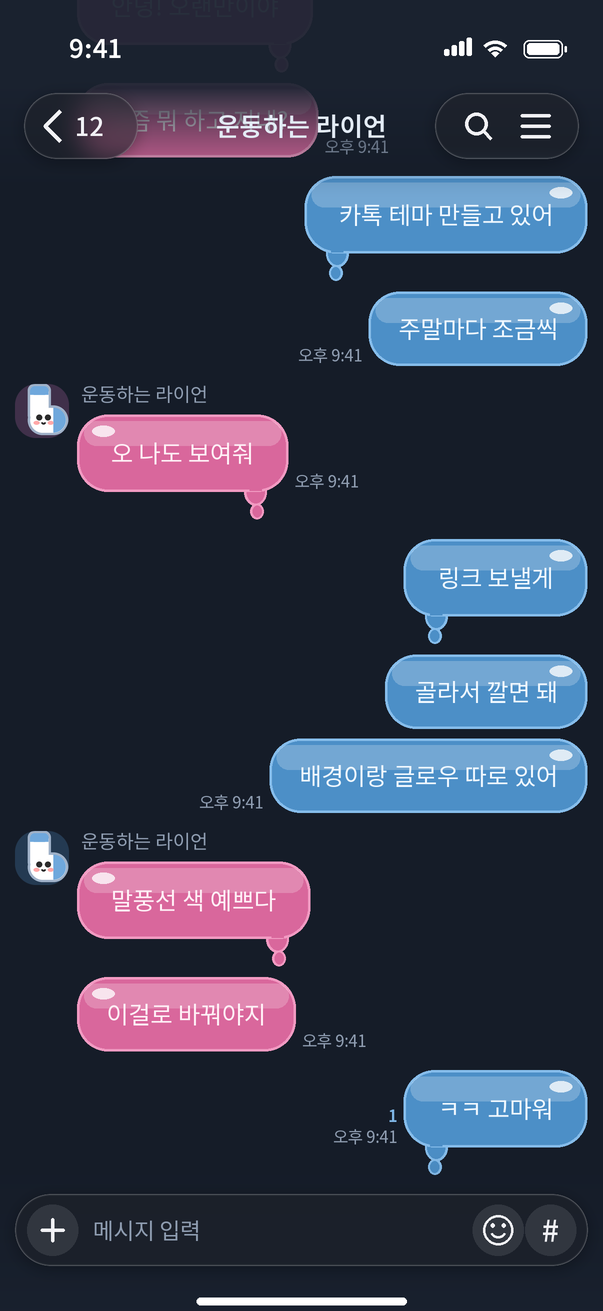
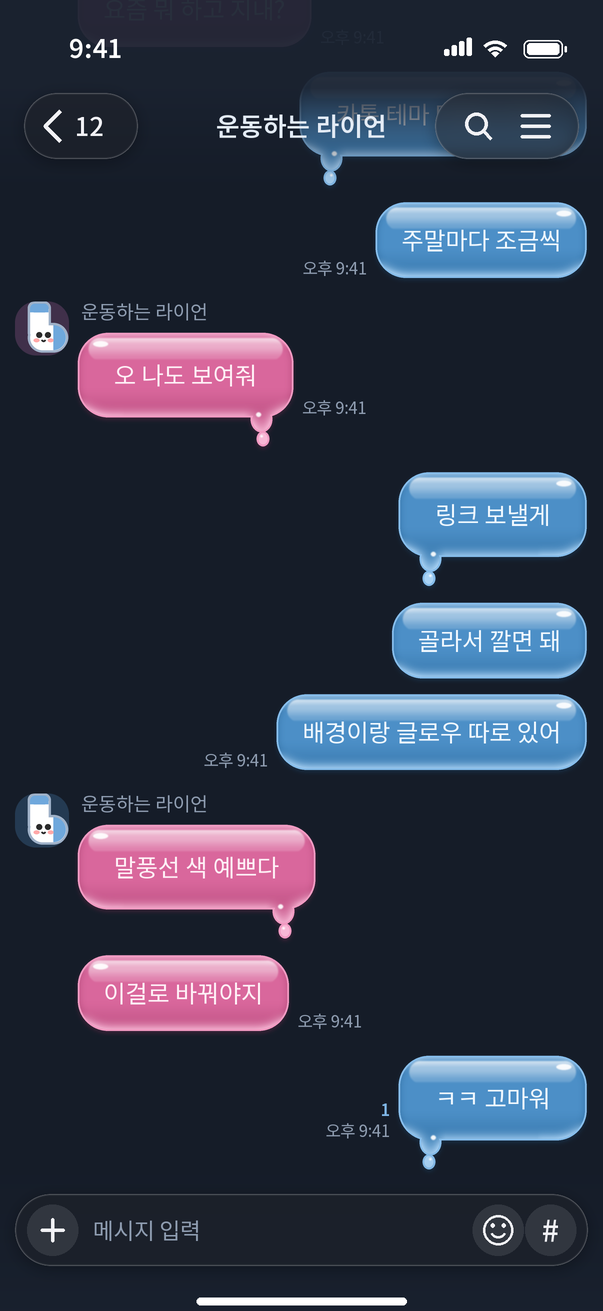
빨래 계열의 젤리 광택을 반사로 읽히게 다시 그리고 0.29.2 로 올린다
흰 알약과 반투명 띠를 얹던 광택을 층으로 쌓는다. 몸통 색이 물든 그림자, 아래가 짙은 명암,
가장자리 안쪽 띠, 아래 테두리에 고이는 빛, 위쪽 반사, 가장 밝은 점. 두 배로 그려 줄인다.

다른 96개 테마의 말풍선 그림·CSS·프로필은 해시로 대조해 버전 줄 말고 같은 것을 확인했다.

diff --git a/tools/charbubble.py b/tools/charbubble.py
@@ -20,6 +20,7 @@
 
 치수는 pt 다. scale 을 곱해 픽셀로 바꾼다.
 """
+import colorsys
 import math
 import os
 import sys
@@ -183,69 +184,173 @@ def f_pixel(t, bw, bh, first):
     return f
 
 
-def d_jelly(p, lp, x, y, w, h, first, ck, t):
-    """젤리. 광택은 보통/강함 두 가지(t['gloss']).
+JELLY_SS = 2          # 두 배로 그려 줄인다. 반사의 둥근 끝과 방울 하이라이트가 계단 없이 나온다
+JELLY_R = 19          # 몸통 모서리 반경
+JELLY_OW = 1.2       # 젤리 윤곽. 두꺼우면 젤리가 아니라 스티커로 읽힌다
 
-    가로로 긋는 선은 넣지 않는다 — 폭 전체를 지나는 선은 광택이 아니라 취소선이나 밑줄로
-    읽혔다. 흐린 빛 덩어리도 넣지 않는다 — 광택이 아니라 얼룩으로 읽혔다.
+
+def _hsv(h, dv=1.0, ds=1.0):
+    """명도와 채도만 곱한다. 그림자와 짙은 가장자리 색."""
+    r, g, b = (v / 255.0 for v in hexc(h)[:3])
+    hh, s, v = colorsys.rgb_to_hsv(r, g, b)
+    r, g, b = colorsys.hsv_to_rgb(hh, min(1.0, s * ds), min(1.0, v * dv))
+    return tuple(int(round(c * 255)) for c in (r, g, b))
+
+
+def _lift(h, f):
+    """빛 받은 색. 흰색을 섞지 않고 명도를 올린다 — 흰색을 섞으면 분홍이 탁한 살색이 된다."""
+    r, g, b = (v / 255.0 for v in hexc(h)[:3])
+    hh, s, v = colorsys.rgb_to_hsv(r, g, b)
+    r, g, b = colorsys.hsv_to_rgb(hh, s * (1 - 0.6 * f), v + (1 - v) * f)
+    return tuple(int(round(c * 255)) for c in (r, g, b))
+
+
+def _ramp(size, s, stops):
+    """세로 가림막. y 만의 함수라 가로로 늘어나도 모든 열이 같다.
+
+    stops 사이는 smoothstep 으로 잇는다. 선형으로 이으면 끝나는 줄에서 꺾인 자국이 보인다.
     """
-    fill, edge = hexc(_c(t[ck])), hexc(t[ck + '_edge'])
+    W, H = size
+    col = Image.new('L', (1, H), 0)
+    px = col.load()
+    ys = [(yy * s, vv) for yy, vv in stops]
+    for i in range(H):
+        yc = i + 0.5
+        if yc <= ys[0][0]:
+            v = ys[0][1]
+        elif yc >= ys[-1][0]:
+            v = ys[-1][1]
+        else:
+            for (a, va), (b, vb) in zip(ys, ys[1:]):
+                if a <= yc <= b:
+                    tt = (yc - a) / (b - a) if b > a else 1.0
+                    tt = tt * tt * (3 - 2 * tt)
+                    v = va + (vb - va) * tt
+                    break
+        px[0, i] = max(0, min(255, int(round(v))))
+    return col.resize((W, H), Image.NEAREST)
+
+
+def _paint(dst, color, alpha):
+    lay = Image.new('RGBA', dst.size, tuple(color[:3]) + (255,))
+    lay.putalpha(alpha)
+    dst.alpha_composite(lay)
+
+
+def _k(m, f):
+    return m.point(lambda v: max(0, min(255, int(v * f))))
+
+
+def d_jelly(p, lp, x, y, w, h, first, ck, t):
+    S = p.s * JELLY_SS
+    size = (p.img.width * JELLY_SS, p.img.height * JELLY_SS)
+    W_, H_ = size
+
+    def B(*v):
+        return [q * S for q in v]
+
+    def blur(m, r):
+        return m.filter(ImageFilter.GaussianBlur(r * S))
+
+    fill = _c(t[ck])
+    edge = t[ck + '_edge']
     strong = t.get('gloss') == 'strong'
+    k = 1.0 if strong else 0.6
     dx = x + w - 20
+
+    drops = []
     if first:
-        p.ell(dx, y + h + 2, 6, 7.5, fill, ow=OW, oc=edge)
-    p.rr(x, y, x + w, y + h, 19, fill, ow=OW, oc=edge)
-    if first:
-        p.rect(dx - 4, y + h - 2.5, dx + 4, y + h + 1, fill)      # 몸통과 방울 사이 선을 지운다
-        p.ell(dx + 1, y + h + 15, 3, 3.8, fill, ow=1.4, oc=edge)
-    white = lambda a: (255, 255, 255, a)
+        drops = [(dx, y + h + 2.5, 6, 7.5), (dx + 1, y + h + 15.5, 3, 3.8)]
+
+    def shape_mask(grow):
+        m = Image.new('L', size, 0)
+        d = ImageDraw.Draw(m)
+        d.rounded_rectangle(B(x - grow, y - grow, x + w + grow, y + h + grow),
+                            radius=(JELLY_R + grow) * S, fill=255)
+        for cx, cy, rx, ry in drops:
+            d.ellipse(B(cx - rx - grow, cy - ry - grow, cx + rx + grow, cy + ry + grow), fill=255)
+        return m
+
+    shape = shape_mask(0)
+    outer = shape_mask(JELLY_OW)
+    out = Image.new('RGBA', size, (0, 0, 0, 0))
+
+    # 1. 그림자. 검정이 아니라 몸통 색을 짙게 한 색이다 — 빛이 젤리를 지나 바닥에 색을 남긴다
+    off = int(1.6 * S)
+    sh = Image.new('L', size, 0)
+    sh.paste(blur(outer, 1.4).crop((0, 0, W_, H_ - off)), (0, off))
+    _paint(out, _hsv(fill, 0.55, 1.2), _k(sh, 0.38))
+
+    # 2. 윤곽. 몸통보다 조금 크게 칠하고 그 위에 몸통을 얹는다
+    _paint(out, hexc(edge), outer)
+
+    body = Image.new('RGBA', size, hexc(fill))
+    light, deep = _lift(fill, 0.55), _hsv(fill, 0.8, 1.15)
+
+    # 3. 몸통 명암. 위는 밝고 아래는 짙다. 가운데는 몸통 색 그대로 둔다 — 늘어나는 줄이 지나는 곳
+    #    위를 많이 밝히면 반사와 몸통 사이 대비가 사라져 반사가 안 읽힌다. 조금만 밝힌다
+    _paint(body, light, _ramp(size, S, [(y, 50 * k), (y + 16, 0)]))
+    _paint(body, deep, _ramp(size, S, [(y + h - 20, 0), (y + h - 3, 170 * k), (y + h + 40, 150 * k)]))
+
+    # 4. 가장자리 띠. 모양에서 흐린 모양을 빼면 테두리 안쪽만 남는다. 곧은 변을 따라 고르다
+    inner = _k(ImageChops.subtract(shape, blur(shape, 2.4)), 2.0)
+    wide = _k(ImageChops.subtract(shape, blur(shape, 4.0)), 1.7)
+    top = _ramp(size, S, [(y, 255), (y + 12, 0)])
+    bot = _ramp(size, S, [(y + h - 14, 0), (y + h - 1, 255)])
+    #    옆과 아래 가장자리는 짙게 — 두께가 생긴다
+    _paint(body, deep, _k(ImageChops.multiply(inner, ImageOps.invert(top)), 0.12 + 0.4 * k))
+    #    아래 가장자리 안쪽에 모이는 빛 — 젤리 속을 지나온 빛이 반대편 테두리에 고인다
+    _paint(body, _lift(fill, 0.85), _k(ImageChops.multiply(wide, bot), 0.5 + 0.8 * k))
+    #    위 가장자리를 타고 도는 빛
+    _paint(body, (255, 255, 255), _k(ImageChops.multiply(inner, top), 0.55 * k))
+    body.putalpha(shape)
+    out.alpha_composite(body)
+
+    # 5. 반사. 창이 비친 넓은 띠 — 몸통 위쪽 삼분의 일을 덮고, 위 끝은 또렷하고 아래로 사라진다.
+    #    얇게 두면 광택이 아니라 옅은 그라데이션으로만 읽혔다
+    sy0, sy1 = y + 2.4, y + (19 if strong else 17)
+    sp = Image.new('L', size, 0)
+    ImageDraw.Draw(sp).rounded_rectangle(B(x + 6, sy0, x + w - 6, sy1), radius=9 * S, fill=255)
+    #    아래 끝까지 옅게 남겼다가 끊는다. 0 으로 녹여 버리면 파스텔 몸통에서 반사가 아니라
+    #    그라데이션으로 읽혔다 — 반사는 경계가 있어야 반사다
+    stops = ([(sy0, 235), (sy0 + 5, 175), (sy1 - 1.2, 80), (sy1, 0)] if strong else
+             [(sy0, 175), (sy0 + 5, 115), (sy1 - 1.2, 45), (sy1, 0)])
+    sp = ImageChops.multiply(sp, _ramp(size, S, stops))
+    _paint(out, (255, 255, 255), blur(sp, 0.45))
+
+    # 6. 가장 밝은 점. 이게 있어야 표면이 젖어 보인다. 강한 광택은 점을 하나 더 두고
+    #    아래 가장자리에 빛이 맺힌 자국을 남긴다
+    hs = Image.new('L', size, 0)
+    hd = ImageDraw.Draw(hs)
     if strong:
-        lp.d.rounded_rectangle(lp._b(x + 2.5, y + h - 18, x + w - 2.5, y + h - 1.8),
-                               radius=14 * lp.s, fill=(0, 0, 0, t.get('shade_a', 26)))
-        W_, H_ = lp.img.size
-        # 윗 광택: 가장자리보다 조금 안쪽이 가장 밝고 위아래로 옅어진다. 맨 윗줄을 가장
-        # 밝게 두면 밝기가 몇 줄에 몰려 흰 선으로 읽혔다. 옅어지는 가림막 한 장으로 만든다.
-        m = Image.new('L', (W_, H_), 0)
-        ImageDraw.Draw(m).rounded_rectangle(lp._b(x + 7, y + 3, x + w - 7, y + 14.5),
-                                            radius=8 * lp.s, fill=255)
-        ramp = Image.new('L', (1, H_), 0)
-        rp = ramp.load()
-        y0p, y1p = (y + 3) * lp.s, (y + 14.5) * lp.s
-        for yy in range(H_):
-            if y0p <= yy <= y1p:
-                tt = (yy - y0p) / (y1p - y0p)
-                v = tt / 0.3 if tt < 0.3 else (1 - (tt - 0.3) / 0.7) ** 1.4
-                rp[0, yy] = int(150 * v)
-        m = ImageChops.multiply(m, ramp.resize((W_, H_)))
-        m = m.filter(ImageFilter.GaussianBlur(1.2 * lp.s))
-        band = Image.new('RGBA', (W_, H_), white(255))
-        band.putalpha(m)
-        lp.img.alpha_composite(band)
-        lp.ell(x + 18, y + 8, 10.5, 3.8, white(240), outline=False)
-        lp.dot(x + 26, y + 6.2, 1.8, fill=white(235))
-        lp.ell(x + w - 22, y + h - 6.5, 4.5, 1.7, white(150), outline=False)
-        if first:
-            lp.dot(dx - 1.5, y + h + 3, 1.6, fill=white(220))
-            lp.dot(dx + 0.3, y + h + 13.5, 0.9, fill=white(220))
+        hd.ellipse(B(x + 9, y + 4, x + 23, y + 8.6), fill=255)
+        hd.ellipse(B(x + 24.4, y + 4.5, x + 27.6, y + 7.7), fill=245)
     else:
-        lp.d.rounded_rectangle(lp._b(x + 3, y + 2.5, x + w - 3, y + 19), radius=8 * lp.s,
-                               fill=white(55))
-        lp.ell(x + 16, y + 9.5, 7.5, 3.6, white(210), outline=False)
+        hd.ellipse(B(x + 9, y + 4.4, x + 19, y + 8.2), fill=235)
+    for cx, cy, rx, ry in drops:
+        hd.ellipse(B(cx - rx * 0.6, cy - ry * 0.62, cx - rx * 0.05, cy - ry * 0.22), fill=235)
+    _paint(out, (255, 255, 255), blur(hs, 0.35))
+    if strong:
+        # 아래에 맺힌 빛은 번진 덩어리다. 또렷하게 그리면 흰 줄표로 읽혔다
+        cs = Image.new('L', size, 0)
+        ImageDraw.Draw(cs).ellipse(B(x + w - 28, y + h - 7.2, x + w - 13, y + h - 3.2), fill=150)
+        _paint(out, (255, 255, 255), blur(cs, 0.9))
+
+    p.img.alpha_composite(out.resize(p.img.size, Image.LANCZOS))
 
 
 def f_jelly(t, bw, bh, first):
-    f = [((-OW, -OW, bw + OW, bh + OW), ())]
-    if t.get('gloss') == 'strong':
-        f += [((5, 1, bw - 5, 18.5), ('top',)),
-              ((7.5, 4.2, 28.5, 11.8), ('outer', 'top')),
-              ((24.2, 4.4, 27.8, 8), ('outer', 'top')),
-              ((bw - 26.5, bh - 8.2, bw - 17.5, bh - 4.8), ('inner', 'bottom')),
-              ((2.5, bh - 18, bw - 2.5, bh - 1.8), ('bottom',))]
-    else:
-        f += [((3, 2.5, bw - 3, 19), ('top',)),
-              ((8.5, 5.9, 23.5, 13.1), ('outer', 'top'))]
+    strong = t.get('gloss') == 'strong'
+    f = [((-3, -1.5, bw + 3, bh + 4.5), ()),              # 윤곽과 그림자
+         ((0, 0, bw, 20), ('top',)),                       # 위 명암·가장자리 빛·반사
+         ((0, bh - 20, bw, bh), ('bottom',)),              # 아래 명암·고인 빛
+         ((4.5, 1.5, 16, 20), ('outer', 'top')),           # 반사의 둥근 끝
+         ((bw - 16, 1.5, bw - 4.5, 20), ('inner', 'top')),
+         ((8, 3, 28.5 if strong else 20, 9.5), ('outer', 'top'))]   # 밝은 점
+    if strong:
+        f.append(((bw - 28, bh - 7.5, bw - 13, bh - 2.5), ('inner', 'bottom')))
     if first:
-        f.append(((bw - 27.6, bh - 5.5, bw - 12.4, bh + 20.2), ('inner', 'bottom')))
+        f.append(((bw - 30, bh - 8, bw - 10, bh + 25), ('inner', 'bottom')))
     return f
 
 
@@ -253,7 +358,9 @@ STYLES = {
     'envelope': dict(bw=40, bh=44, radius=6, draw=d_envelope, features=f_envelope),
     'postit':   dict(bw=40, bh=44, radius=1, draw=d_postit, features=f_postit),
     'pixel':    dict(bw=40, bh=44, radius=9.5, draw=d_pixel, features=f_pixel),
-    'jelly':    dict(bw=40, bh=44, radius=19, draw=d_jelly, features=f_jelly),
+    # 젤리는 모서리 반경에 가장자리 띠의 흐림이 번지는 폭을 더한다. 늘어나는 줄이 그 안을 지나면
+    # 모서리 근처의 옅은 명암이 같이 늘어난다
+    'jelly':    dict(bw=40, bh=44, radius=JELLY_R + 3, draw=d_jelly, features=f_jelly),
 }
 
 

diff --git a/tools/themes.py b/tools/themes.py
@@ -40,7 +40,7 @@ chat_bg
 
 import re
 
-VERSION = '0.29.1'
+VERSION = '0.29.2'
 
 THEMES = [
     dict(

diff --git a/CLAUDE.md b/CLAUDE.md
@@ -155,6 +155,19 @@ release.ps1         → 태그 + 릴리스 자산 첨부
 작은 판을 따로 그리고 줄여서 확인한다. 줄무늬 양말이 36pt 에서 우유갑으로 보여 다시 그렸다 —
 작아지면 무늬보다 윤곽과 색 덩어리가 먼저 읽힌다.
 
+**광택은 반사로 읽혀야 한다.** 젤리 광택을 흰 알약 몇 개와 반투명 띠로 그렸을 때는 스티커를 붙인
+것처럼 보였다. 지금은 몸통을 층으로 쌓는다 — 몸통 색으로 물든 그림자, 아래가 짙은 명암,
+가장자리 안쪽 띠(옆·아래는 짙게, 위는 밝게), 아래 테두리 안에 고이는 빛, 위쪽 삼분의 일을 덮는
+반사, 가장 밝은 점. 몇 가지를 겪었다.
+
+- 반사를 0 까지 녹이면 파스텔 몸통에서 그냥 그라데이션이 된다. 아래 끝에 옅게 남겼다가 끊어야
+  경계가 생기고 반사로 읽힌다. 위를 밝히는 명암을 세게 넣어도 반사와의 대비가 사라진다
+- 빛 받은 색은 흰색을 섞지 않고 명도를 올린다. 흰색을 섞으면 분홍이 탁한 살색이 된다
+- 명암은 `y` 만의 함수(세로 가림막)와 모양을 흐린 가장자리 띠로만 만든다. 둘 다 가로로 늘여도
+  열마다 같고, 곧은 변을 따라 고르다. 모서리 가까이는 흐림이 번지므로 반경에 그 폭을 더해 늘어나는
+  줄을 피한다
+- 두 배로 그려 줄인다(`JELLY_SS`). 반사의 둥근 끝과 방울 하이라이트에 계단이 생긴다
+
 **말풍선 코드를 고치면 기존 테마 그림을 해시로 대조한다.** 캐릭터 말풍선은 기존 길을 건드리지
 않게 따로 갈라 두었다. 고치기 전 `build-src/` 의 말풍선 PNG·CSS·프로필 해시를 떠 두고 고친 뒤
 비교해서, 버전 줄 말고 달라진 것이 없어야 한다.
